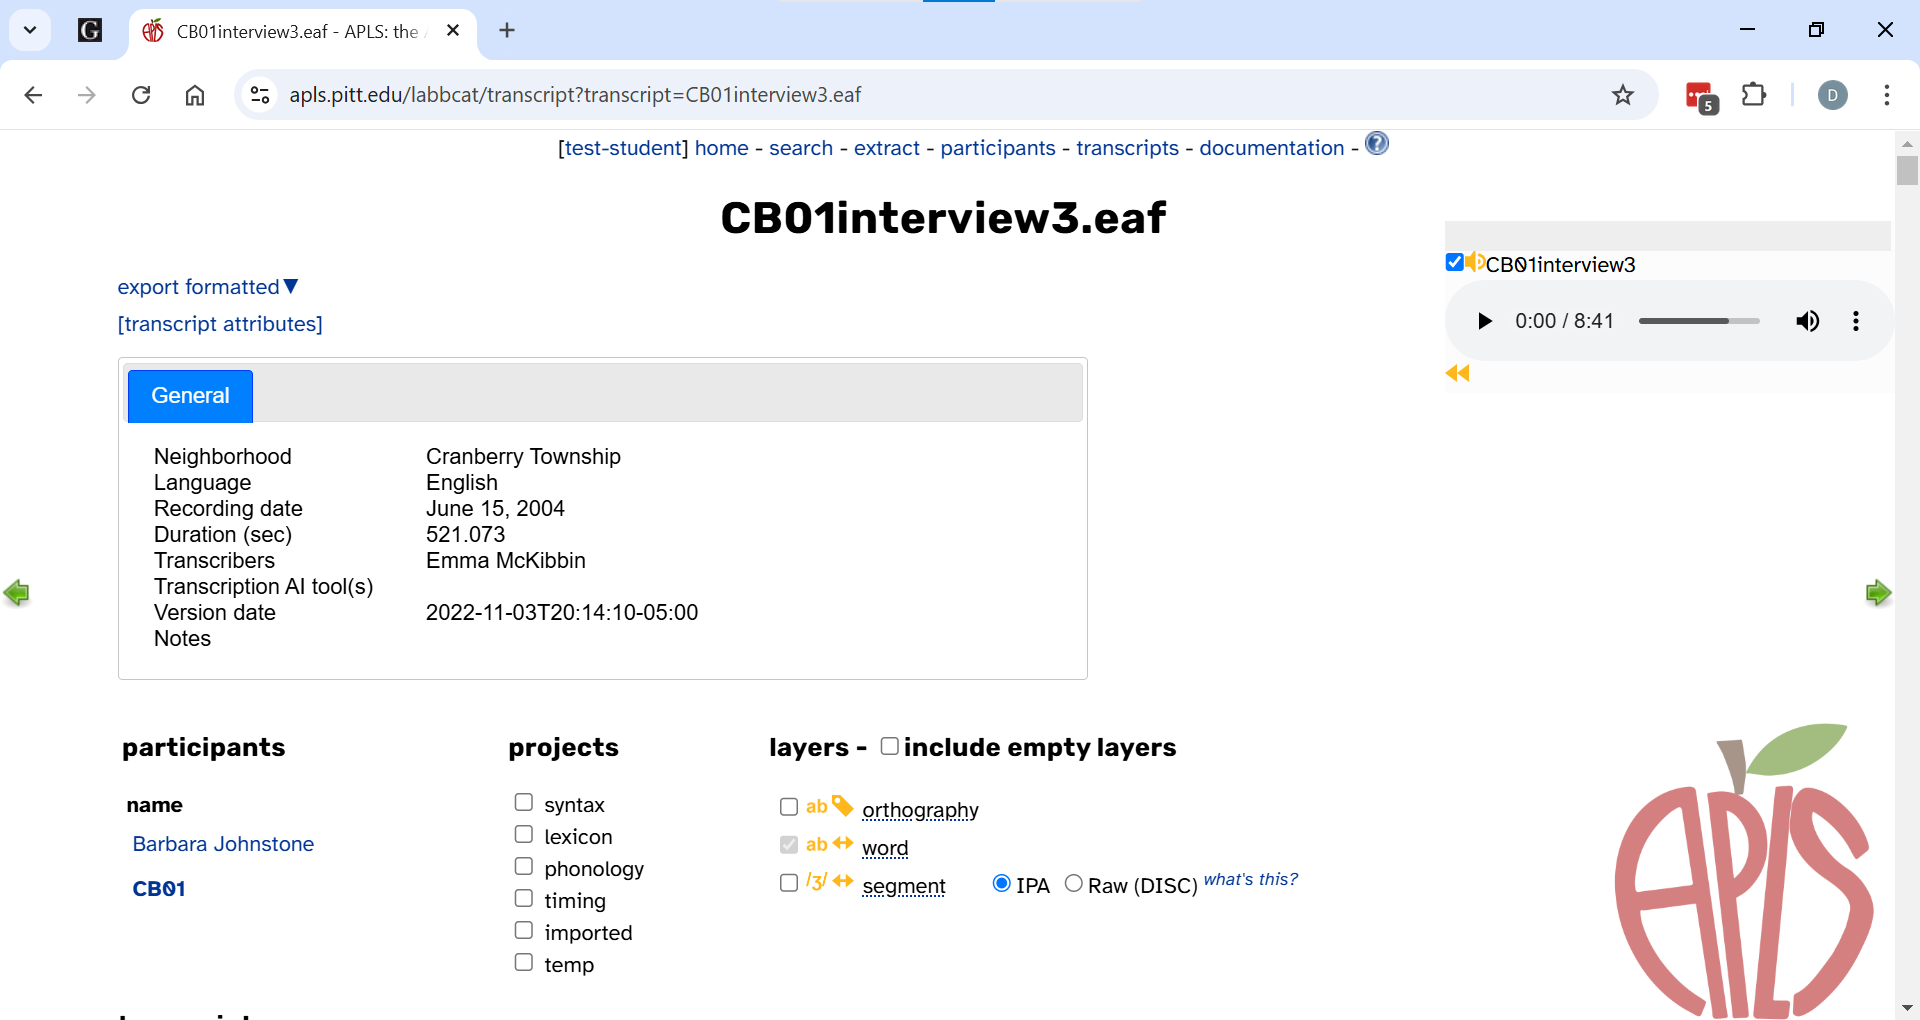
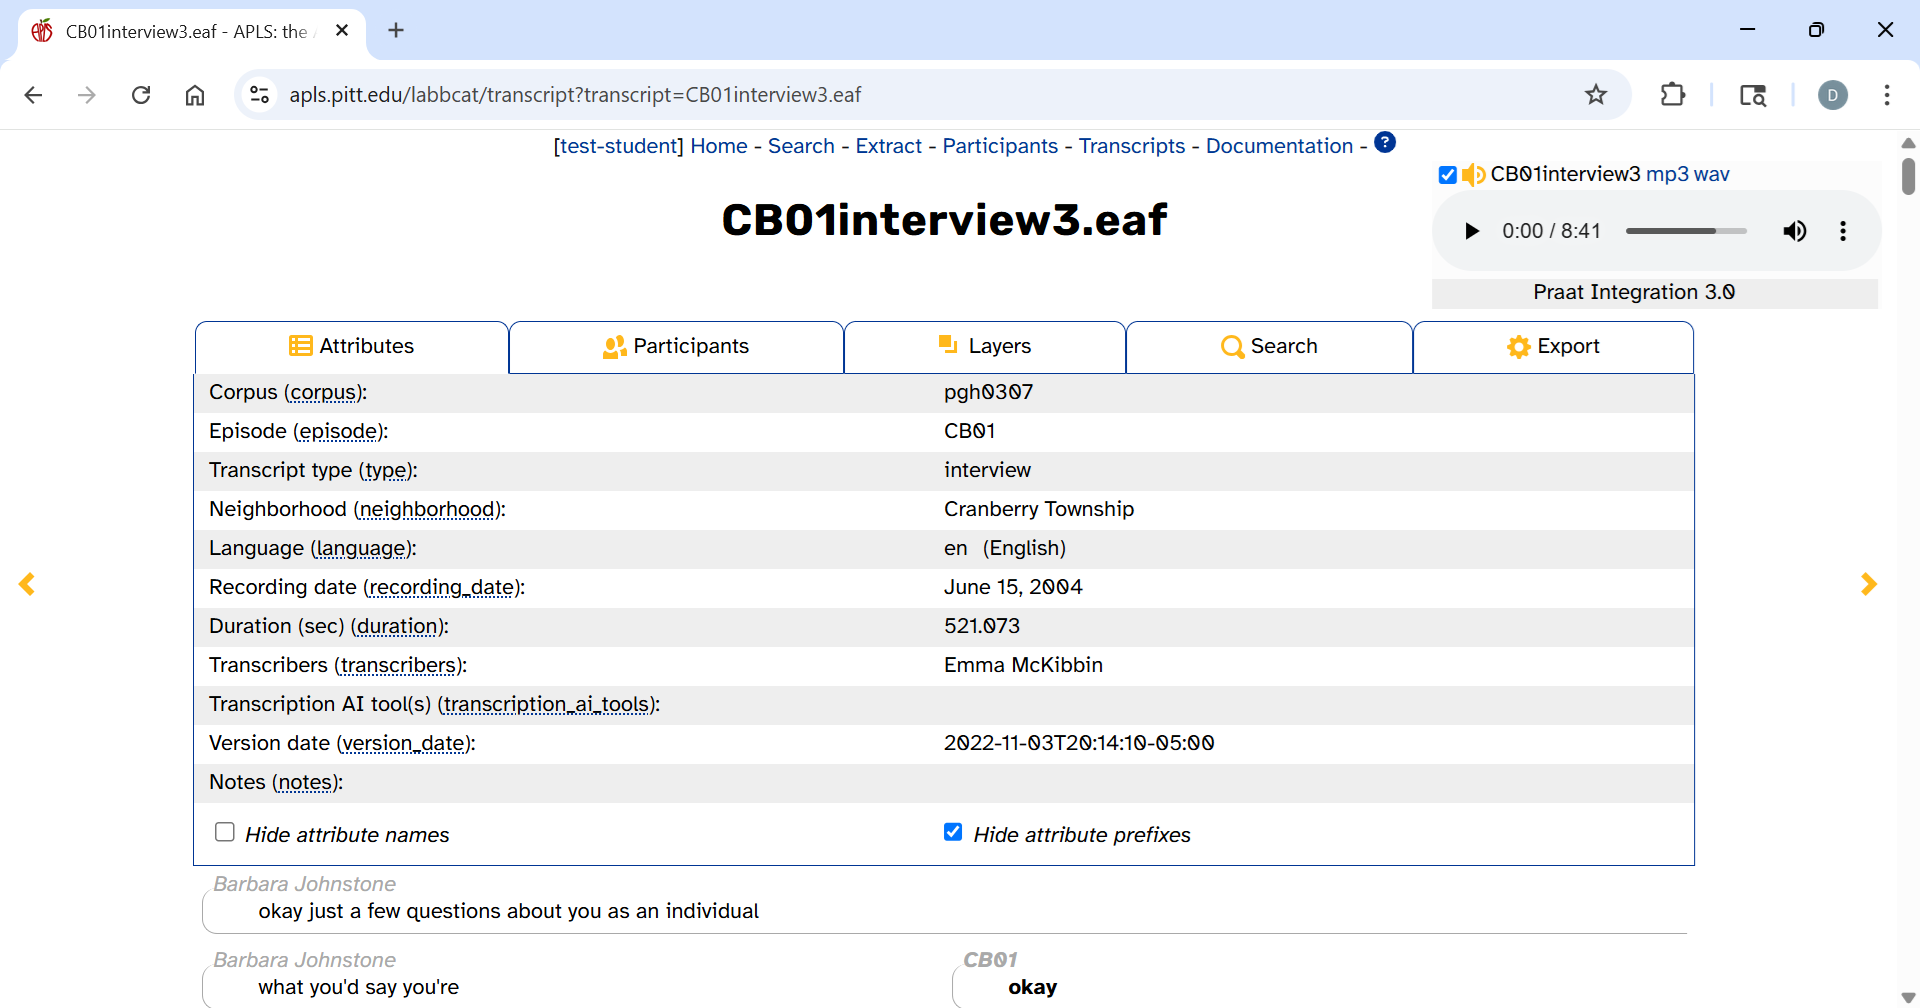
Add attributes tab to view-transcript

diff --git a/doc/how-to-use/view-transcript.md b/doc/how-to-use/view-transcript.md
@@ -6,7 +6,7 @@ parent: How to use APLS
 has_children: yes
 has_toc: no
 nav_order: 20
-last_modified_date: 2025-06-20T11:13:20-04:00
+last_modified_date: 2025-06-20T13:40:11-04:00
 ---
 
 # {{ page.title }}
@@ -490,6 +490,40 @@ You can choose different settings for different phonological layers:
 
 ## Viewing transcript attributes
 
+In [LaBB-CAT] corpora like APLS, <span class="keyterm">attributes</span> are [metadata about individual transcripts or participants]({{ '/doc/attribute-typology' | relative_url }}).
+You can view a transcript's attributes by opening the _Attributes_ tab in the transcript header.
+This tab looks exactly like the transcript's [<span class="apls-page">Transcript attributes</span>]({{ '/doc/browse-transcripts#transcript-attributes-pages' | relative_url }}) page: <!-- Move this to that docpage instead? -->
+
+{% include screengrab.html src="transcript/attributes.png" %}
+
+The left-hand column shows attributes' display titles (like `Duration (sec)`) and names (like `duration`).
+The right-hand column shows attributes' values (e.g., `521.073`).
+
+Most of the attributes are self-explanatory.
+But just like layer names in the [layer picker](#layer-description), hovering over an attribute name will bring up a tooltip with its description:
+
+{% include screengrab.html src="transcript/attributes-tooltip.png" %}
+
+Blanks in the right-hand column mean that this transcript doesn't have any value for that attribute.
+As you can see, for example, `Transcription AI tool(s)` has a blank for `CB01interview3.eaf` (meaning its <span class="transcript-attr">transcription_ai_tools</span> attribute is empty).
+This is because no AI tools were used to transcribe `CB01interview3.eaf`.
+
+{: .note }
+> To export transcript attributes to a CSV file, use the [_Export Attributes_ menu on the <span class="apls-page">Transcripts</span> page]({{ '/doc/browse-transcripts#export-attributes' | relative_url }}).
+
+The two checkboxes at the bottom of this tab control how the left-hand column is displayed.
+If you want to see attributes' full [export names]({{ '/doc/attribute-typology#export-name' | relative_url }}), deselect _Hide attribute prefixes_:
+
+{% include screengrab.html src="transcript/attributes-prefixes.png" %}
+
+If you're finding the attribute names visually distracting, select _Hide attribute names_:
+
+{% include screengrab.html src="transcript/attributes-hide-names.png" %}
+
+Like in the [layer picker](#selecting-layers-to-display), APLS remembers these settings if you navigate to other <span class="apls-page">Transcript</span> or <span class="apls-page">Transcript attributes</span> pages in the same browser tab.
+
+A detailed description of the different transcript attributes can be found in the [field guide]({{ '/doc/transcript-attributes' | relative_url }}).
+
 
 ## Viewing participant information
 
@@ -602,30 +636,7 @@ Phonological layers (like <span class="layer">segment</span>) are always display
 > {% include screengrab.html src="transcript/export-praat-3.png" %}
 
 
-
 ## Opening utterances in Praat
-
-
-# Old stuff
-
-
-### [transcript attributes] panel
-
-Underneath the _export formatted_ menu is the collapsible _[transcript attributes]_ panel
-This panel shows' <span class="keyterm">transcript attributes</span> display titles in the left-hand column (e.g., `Neighborhood`) and values in the right-hand column (e.g., `Cranberry Township`).
-
-{% include screengrab.html src="transcript/attributes.png" %}
-
-If you hover over a display title, a tooltip will pop up with the attribute's [export name]({{ '/doc/attribute-typology#export-name'}}) and short description.
-
-{% include screengrab.html src="transcript/attribute-hover.png" %}
-
-Blanks in the right-hand column mean that this transcript doesn't have any value for that attribute.
-For example, the previous screengrabs show a blank for `Transcription AI tool(s)` because the <span class="transcript-attr">transcription_ai_tools</span> attribute is empty for `CB01interview3.eaf`;
-no AI tools were used to transcribe that interview.
-
-{: .note }
-> To export transcript attributes to a CSV file, use the [_Export Attributes_ menu on the <span class="apls-page">Transcripts</span> page]({{ '/doc/browse-transcripts#export-attributes' | relative_url }}).
 
 
 ## Accessing <span class="apls-page">Transcript</span> pages 
